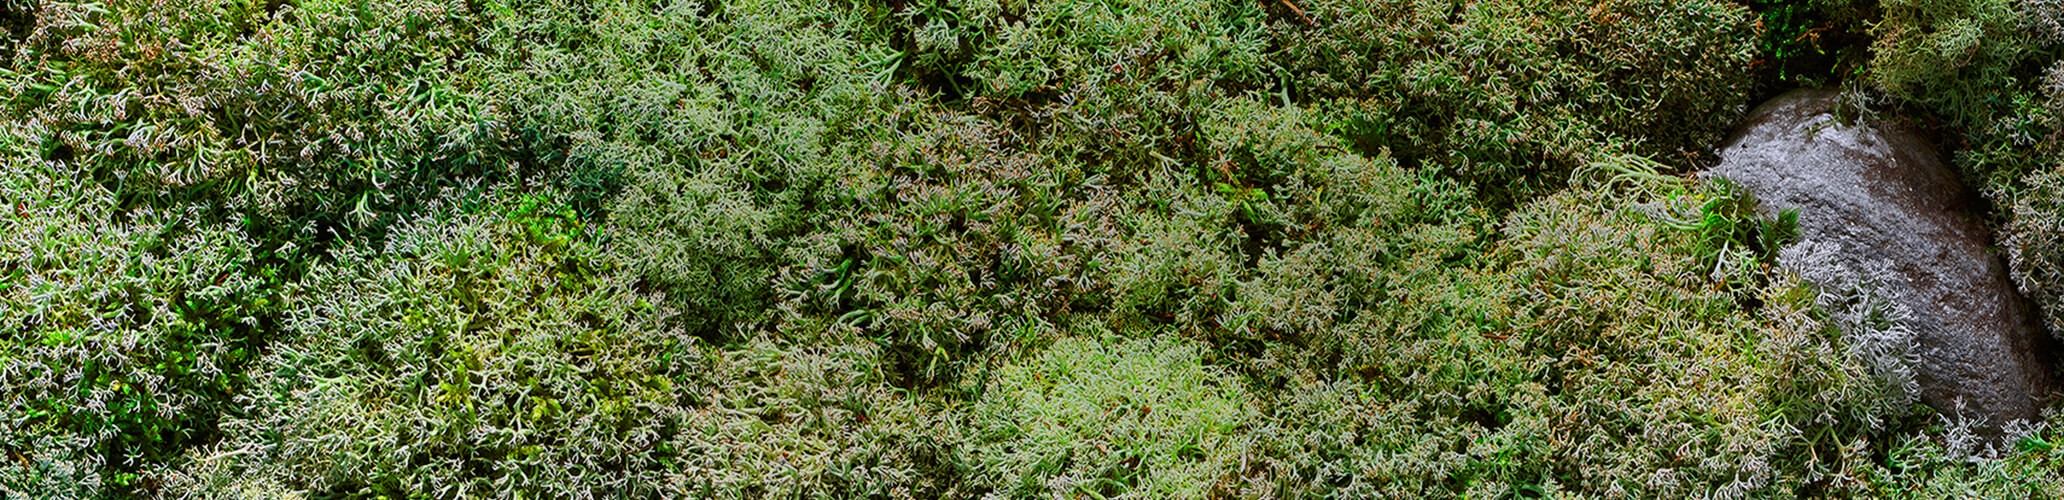
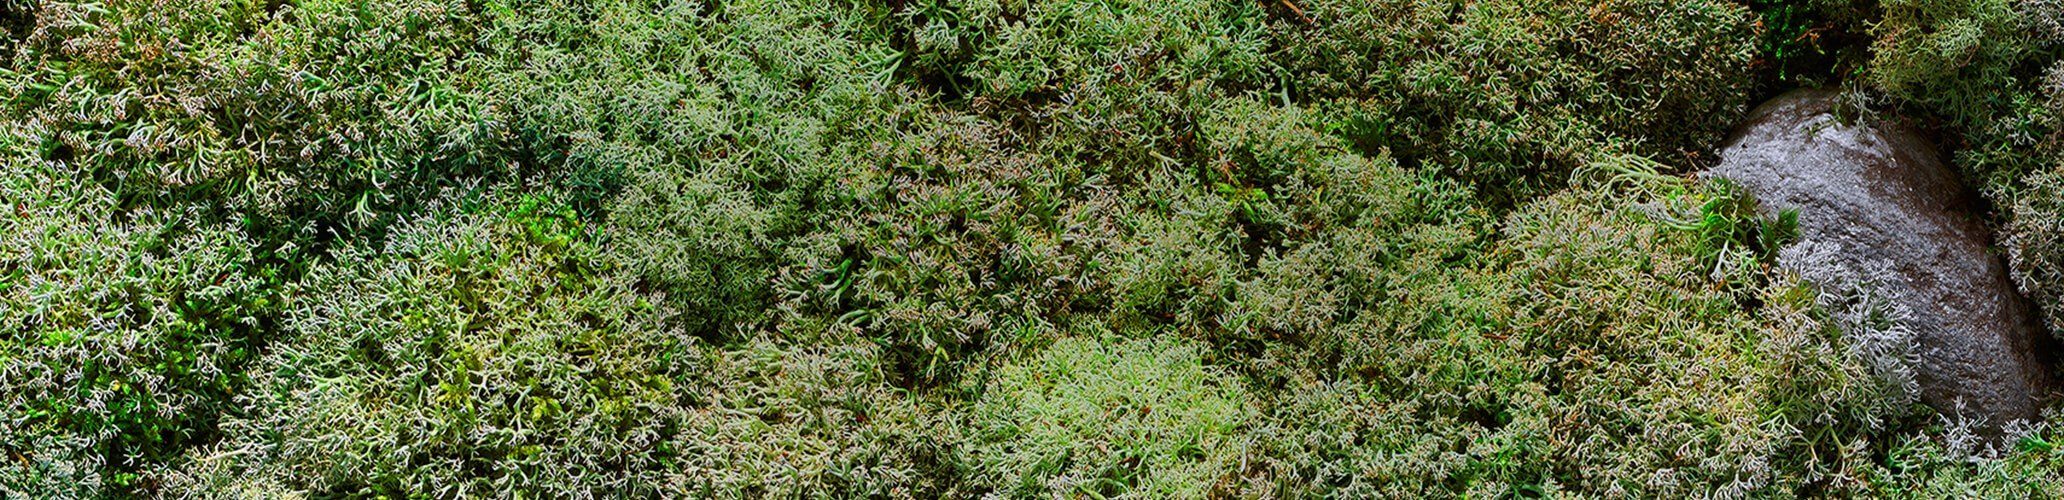
Optimize fireplace ad payload
Recompress cropped backgrounds and document the 1.43 MiB production manifest.

diff --git a/README.md b/README.md
@@ -21,6 +21,42 @@ Then visit `http://localhost:8000/preview.html`.
 - Standalone creatives auto-start without depending on `preview.html`.
 - The full creative uses the configured `clickTag` for clickout behavior.
 
+## Production payload
+
+The shipped creatives use the three cropped background files:
+
+- `assets/top/bg.jpg`
+- `assets/left/bg.jpg`
+- `assets/right/bg.jpg`
+
+The shared `styles.css` and `ad.js` files are loaded by all three HTML
+creatives. The JPEG backgrounds were recompressed at quality 85 without
+changing their dimensions, preserving the existing crop and seam geometry.
+
+The measured production file list is:
+
+```text
+top.html
+left.html
+right.html
+styles.css
+ad.js
+assets/top/bg.jpg
+assets/top/hl.png
+assets/left/bg.jpg
+assets/left/logo.png
+assets/left/hl.png
+assets/right/bg.jpg
+assets/right/logo.png
+assets/right/hl.png
+assets/box.png
+assets/cta.png
+```
+
+This list totals 1,494,524 bytes (1.43 MiB), below the 3 MB limit. The
+`design/layout.png` debug reference and unused `assets/bg-big.jpg` are not
+part of the production package.
+
 ## AI note
 
 The preview was initially built with a `1680 x 1225` stage, which did not
